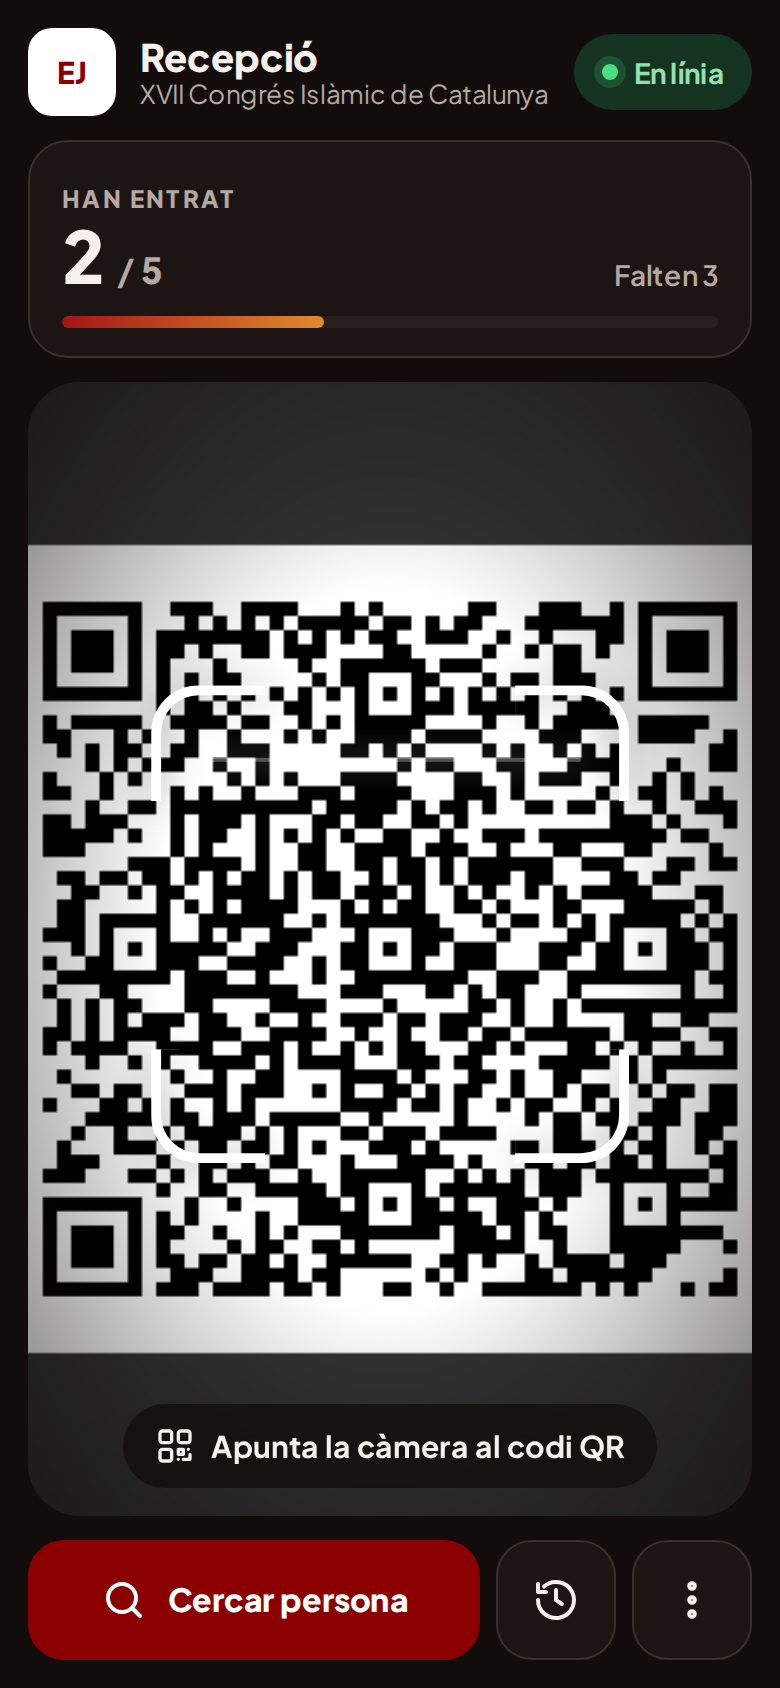
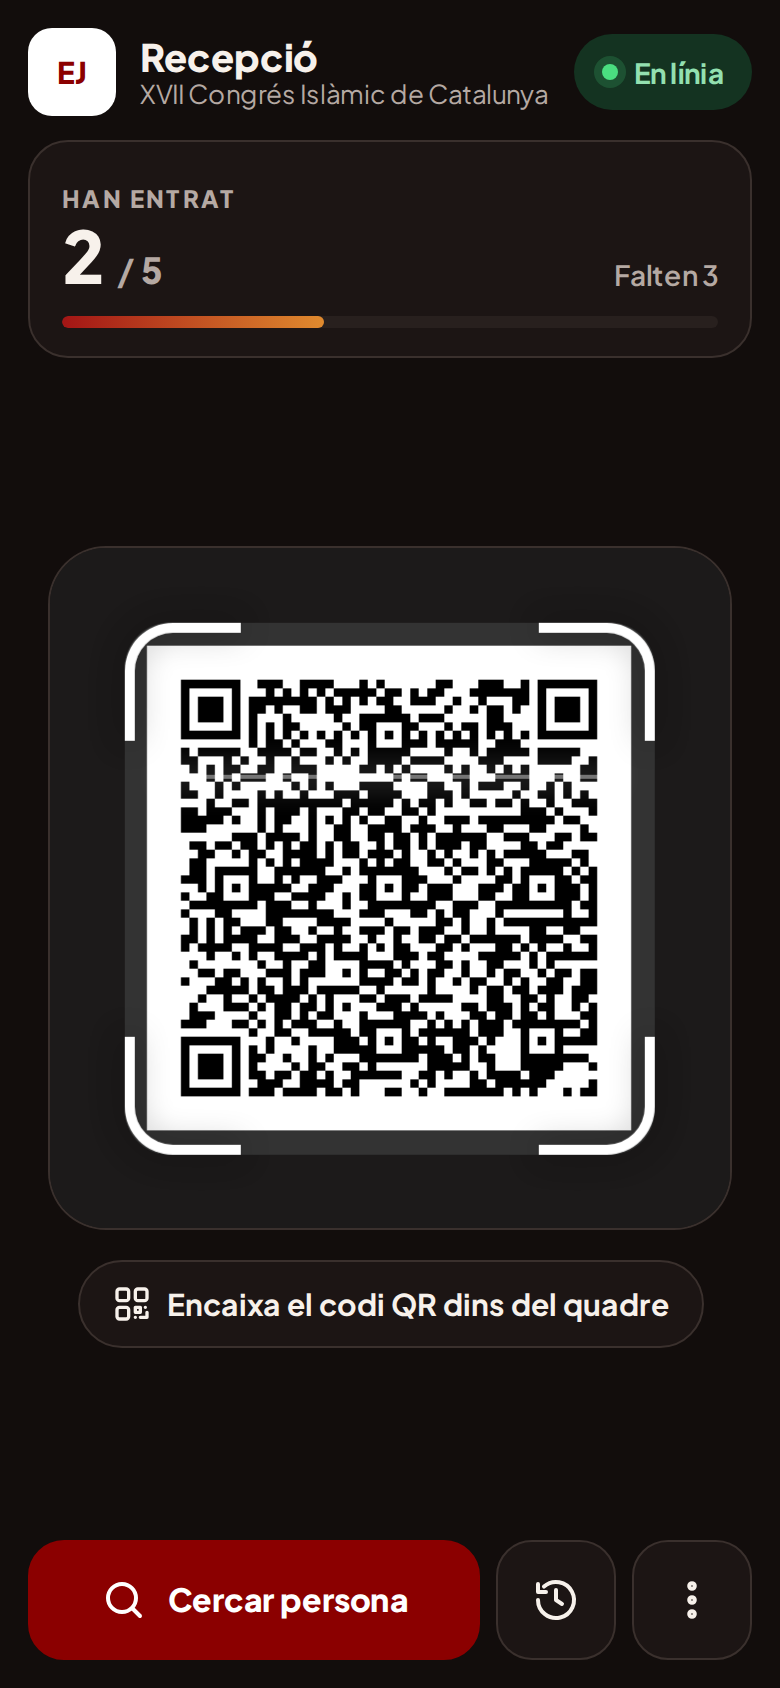
Recepció: visor quadrat i només es llegeix el QR que queda dins del marc
- El visor de la càmera passa a ser un quadrat centrat, amb la zona de
  fora del marc enfosquida i el missatge «Encaixa el codi QR dins del quadre»
- La lectura (BarcodeDetector o jsQR) es fa només sobre el tros de la
  imatge que queda dins del marc (78% del visor)
- Prova nova: un QR visible però fora del marc no es llegeix

Claude-Session: https://claude.ai/code/session_01FuhBsFQB1seCX3Sgpv4j61

diff --git a/recepcio/app.css b/recepcio/app.css
@@ -159,21 +159,21 @@ body.a-escaner { background: var(--nit); color-scheme: dark; }
 .barra-progres { height: 6px; border-radius: 99px; background: var(--nit-3); overflow: hidden; }
 .barra-progres span { display: block; height: 100%; width: 0; border-radius: inherit; background: linear-gradient(90deg, #A31515, #E08A2E); transition: width .5s ease; }
 
-.visor { position: relative; flex: 1 1 auto; min-height: 250px; border-radius: 26px; overflow: hidden; background: #090605; isolation: isolate; }
+/* Visor quadrat i centrat: només es llegeix el QR que queda dins del marc (ZONA_LECTURA a app.js) */
+.zona-escaneig { flex: 1 1 auto; min-height: 0; display: flex; flex-direction: column; align-items: center; justify-content: center; gap: 16px; }
+.visor { position: relative; flex: 0 0 auto; width: min(100%, 340px, 48vh); aspect-ratio: 1; border-radius: 28px; overflow: hidden; background: #090605; isolation: isolate; box-shadow: 0 0 0 1px var(--nit-linia); }
 .visor video { position: absolute; inset: 0; width: 100%; height: 100%; object-fit: cover; }
-.visor::after { content: ""; position: absolute; inset: 0; pointer-events: none; background: radial-gradient(ellipse at center, transparent 45%, rgba(9, 6, 5, .55) 100%); }
-.marc { position: absolute; z-index: 1; left: 50%; top: 50%; width: min(66%, 280px); aspect-ratio: 1; transform: translate(-50%, -55%); }
-.marc .c { position: absolute; width: 24%; height: 24%; border: 5px solid #FFFFFF; filter: drop-shadow(0 0 10px rgba(0,0,0,.45)); }
+.marc { position: absolute; z-index: 1; left: 50%; top: 50%; width: 78%; aspect-ratio: 1; transform: translate(-50%, -50%); border-radius: 22px; box-shadow: 0 0 0 999px rgba(9, 6, 5, .55); }
+.marc .c { position: absolute; width: 22%; height: 22%; border: 5px solid #FFFFFF; filter: drop-shadow(0 0 8px rgba(0,0,0,.4)); }
 .marc .c1 { top: 0; left: 0; border-right: 0; border-bottom: 0; border-top-left-radius: 24px; }
 .marc .c2 { top: 0; right: 0; border-left: 0; border-bottom: 0; border-top-right-radius: 24px; }
 .marc .c3 { bottom: 0; left: 0; border-right: 0; border-top: 0; border-bottom-left-radius: 24px; }
 .marc .c4 { bottom: 0; right: 0; border-left: 0; border-top: 0; border-bottom-right-radius: 24px; }
-.marc .linia { position: absolute; left: 10%; right: 10%; top: 50%; height: 2px; border-radius: 2px; background: #FFFFFF; box-shadow: 0 0 16px 3px rgba(255,255,255,.55); animation: escombrat 2.4s ease-in-out infinite; }
+.marc .linia { position: absolute; left: 8%; right: 8%; top: 50%; height: 2px; border-radius: 2px; background: #FFFFFF; box-shadow: 0 0 16px 3px rgba(255,255,255,.55); animation: escombrat 2.4s ease-in-out infinite; }
 .visor-missatge {
-  position: absolute; z-index: 2; left: 50%; bottom: 14px; transform: translateX(-50%);
-  display: inline-flex; align-items: center; gap: 8px; white-space: nowrap;
-  padding: 10px 16px; border-radius: 999px; font-weight: 700; font-size: 15px;
-  background: rgba(18, 13, 12, .78); backdrop-filter: blur(8px); -webkit-backdrop-filter: blur(8px);
+  margin: 0; display: inline-flex; align-items: center; gap: 8px;
+  padding: 10px 16px; border-radius: 999px; font-weight: 700; font-size: 15px; text-align: center;
+  background: var(--nit-2); border: 1px solid var(--nit-linia); color: var(--nit-text);
 }
 .visor-missatge svg { width: 20px; height: 20px; }
 .visor-error { position: absolute; inset: 0; z-index: 3; display: flex; flex-direction: column; justify-content: center; align-items: center; gap: 16px; padding: 24px; text-align: center; background: var(--nit-2); }
@@ -285,7 +285,7 @@ body.a-escaner { background: var(--nit); color-scheme: dark; }
 .confirmar { display: flex; flex-direction: column; gap: 10px; padding: 14px; border-radius: 18px; background: var(--ko-suau); }
 
 /* ---------------- Animacions ---------------- */
-@keyframes escombrat { 0%, 100% { transform: translateY(-105px); opacity: .25; } 50% { transform: translateY(105px); opacity: 1; } }
+@keyframes escombrat { 0%, 100% { top: 10%; opacity: .3; } 50% { top: 90%; opacity: 1; } }
 @keyframes gir { to { transform: rotate(360deg); } }
 @keyframes parpelleig { 50% { opacity: .35; } }
 @keyframes entrada { from { transform: scale(.98); } }

diff --git a/recepcio/index.html b/recepcio/index.html
@@ -87,15 +87,12 @@
     <div class="barra-progres" aria-hidden="true"><span id="progres"></span></div>
   </section>
 
+  <div class="zona-escaneig">
   <section class="visor" id="visor">
     <video id="video" playsinline muted autoplay></video>
     <div class="marc" aria-hidden="true">
       <span class="c c1"></span><span class="c c2"></span><span class="c c3"></span><span class="c c4"></span>
       <span class="linia"></span>
-    </div>
-    <div class="visor-missatge" id="visor-missatge">
-      <svg viewBox="0 0 24 24" aria-hidden="true"><rect x="3" y="3" width="7" height="7" rx="1.5"/><rect x="14" y="3" width="7" height="7" rx="1.5"/><rect x="3" y="14" width="7" height="7" rx="1.5"/><path d="M14 14h3v3h-3zM20 14v.01M14 20h.01M17 20h4v-3"/></svg>
-      <span>Apunta la càmera al codi QR</span>
     </div>
     <div class="visor-error" id="visor-error" hidden>
       <svg viewBox="0 0 24 24" aria-hidden="true"><path d="M3 7h3l2-3h8l2 3h3v12H3z"/><circle cx="12" cy="13" r="4"/><path d="M3 3l18 18"/></svg>
@@ -107,6 +104,11 @@
     </div>
     <div class="comprovant" id="comprovant" hidden><span class="spinner" aria-hidden="true"></span><span>Comprovant…</span></div>
   </section>
+  <p class="visor-missatge" id="visor-missatge">
+    <svg viewBox="0 0 24 24" aria-hidden="true"><rect x="3" y="3" width="7" height="7" rx="1.5"/><rect x="14" y="3" width="7" height="7" rx="1.5"/><rect x="3" y="14" width="7" height="7" rx="1.5"/><path d="M14 14h3v3h-3zM20 14v.01M14 20h.01M17 20h4v-3"/></svg>
+    <span>Encaixa el codi QR dins del quadre</span>
+  </p>
+  </div>
   <input class="ocult" id="foto-qr" type="file" accept="image/*" capture="environment">
 
   <nav class="accions" aria-label="Accions">

diff --git a/recepcio/app.js b/recepcio/app.js
@@ -523,19 +523,24 @@
     requestAnimationFrame(bucle);
   }
 
+  // Només es llegeix el tros de la imatge que queda dins del marc blanc: el visor és quadrat i mostra
+  // el centre del vídeo, i el marc n'ocupa el 78% (mateix valor que .marc a app.css).
+  const ZONA_LECTURA = 0.78;
+
   async function llegirFotograma() {
+    const vw = video.videoWidth, vh = video.videoHeight;
+    if (!vw || !vh) return null;
+    const costat = Math.min(vw, vh) * ZONA_LECTURA;
+    const mida = Math.round(Math.min(costat, 640));
+    llenç.width = llenç.height = mida;
+    ctx.drawImage(video, (vw - costat) / 2, (vh - costat) / 2, costat, costat, 0, 0, mida, mida);
     if (detector) {
       try {
-        const trobats = await detector.detect(video);
+        const trobats = await detector.detect(llenç);
         return trobats[0]?.rawValue ?? null;
       } catch { detector = null; }
     }
-    const vw = video.videoWidth, vh = video.videoHeight;
-    if (!vw || !vh || !window.jsQR) return null;
-    const costat = Math.min(vw, vh);
-    const mida = Math.min(costat, 640);
-    llenç.width = llenç.height = mida;
-    ctx.drawImage(video, (vw - costat) / 2, (vh - costat) / 2, costat, costat, 0, 0, mida, mida);
+    if (!window.jsQR) return null;
     const img = ctx.getImageData(0, 0, mida, mida);
     return window.jsQR(img.data, mida, mida, { inversionAttempts: "dontInvert" })?.data ?? null;
   }

diff --git a/recepcio/sw.js b/recepcio/sw.js
@@ -1,7 +1,7 @@
 // Guarda l'app perquè s'obri encara que no hi hagi cobertura a l'entrada.
 // Les consultes a l'Apps Script no es guarden mai aquí (les dades offline les gestiona app.js).
 // Puja VERSIO cada vegada que canviïs algun fitxer de la llista.
-const VERSIO = "recepcio-v8";
+const VERSIO = "recepcio-v9";
 const FITXERS = [
   "./",
   "./app.css",
